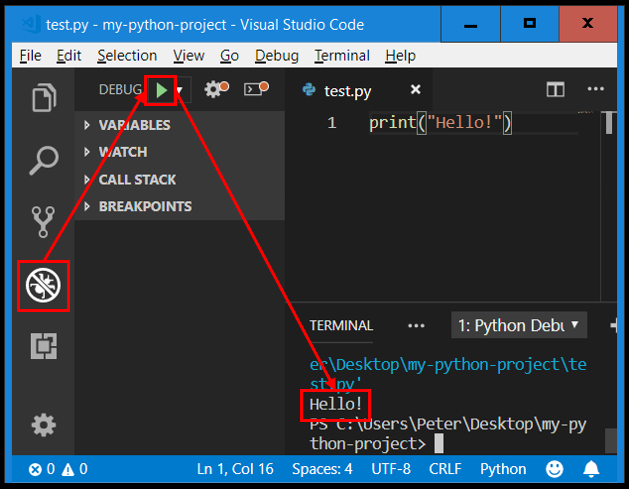
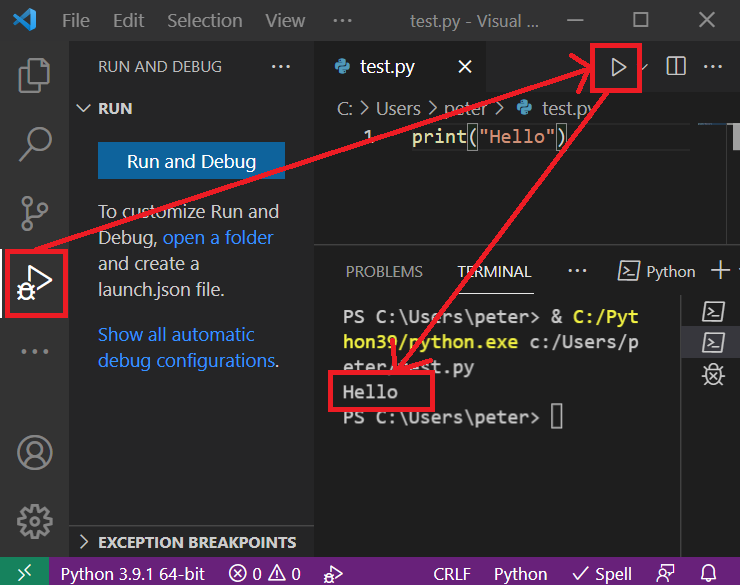
Updated VS Code instructions.

diff --git a/src/courses/introduction-to-script-programming/exercises.md b/src/courses/introduction-to-script-programming/exercises.md
@@ -104,7 +104,7 @@ Then create a new Python file in your project folder, as shown in <FigureNumber 
 
 </Figure>
 
-The first time Visual Studio Code encounters a Python file, it will suggest you install an extension to it containing features for working with Python files. Install that extension. You should then be able to run your Python code by clicking on the green DEBUG button shown in <FigureNumber /> below.
+The first time Visual Studio Code encounters a Python file, it will suggest you install an extension to it containing features for working with Python files. Install that extension. You should then be able to run your Python code by clicking on the ▶ button shown in <FigureNumber /> below.
 
 <Figure caption="Running Python files in Visual Studio Code.">
 
@@ -112,7 +112,7 @@ The first time Visual Studio Code encounters a Python file, it will suggest you 
 
 </Figure>
 
-That's it! Now you can write your Python code in files using Visual Studio Code and then click on the green DEBUG button to run it.
+That's it! Now you can write your Python code in files using Visual Studio Code and then click on the ▶ button to run it.
 
 ## Exercise 0: Input & output
 Before you start working on these exercises, you are recommended to watch the following recorded lectures:
